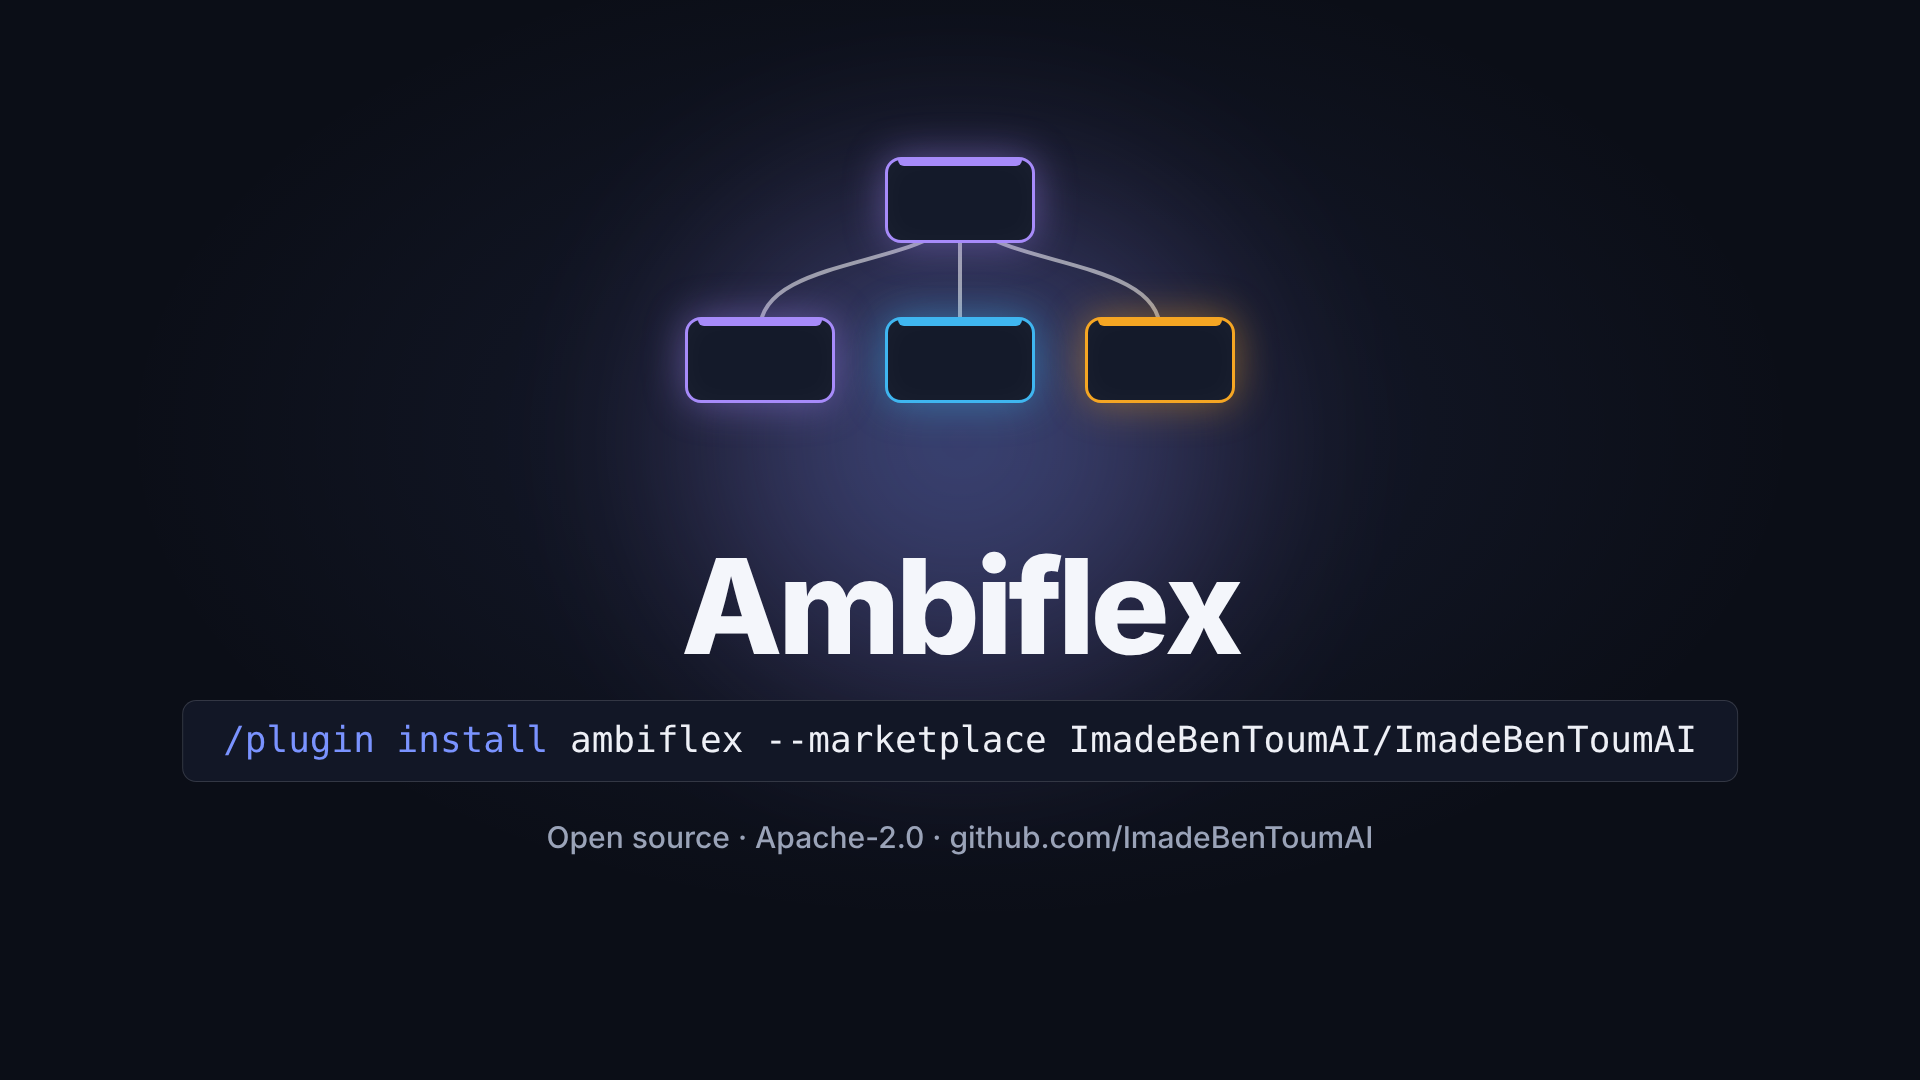
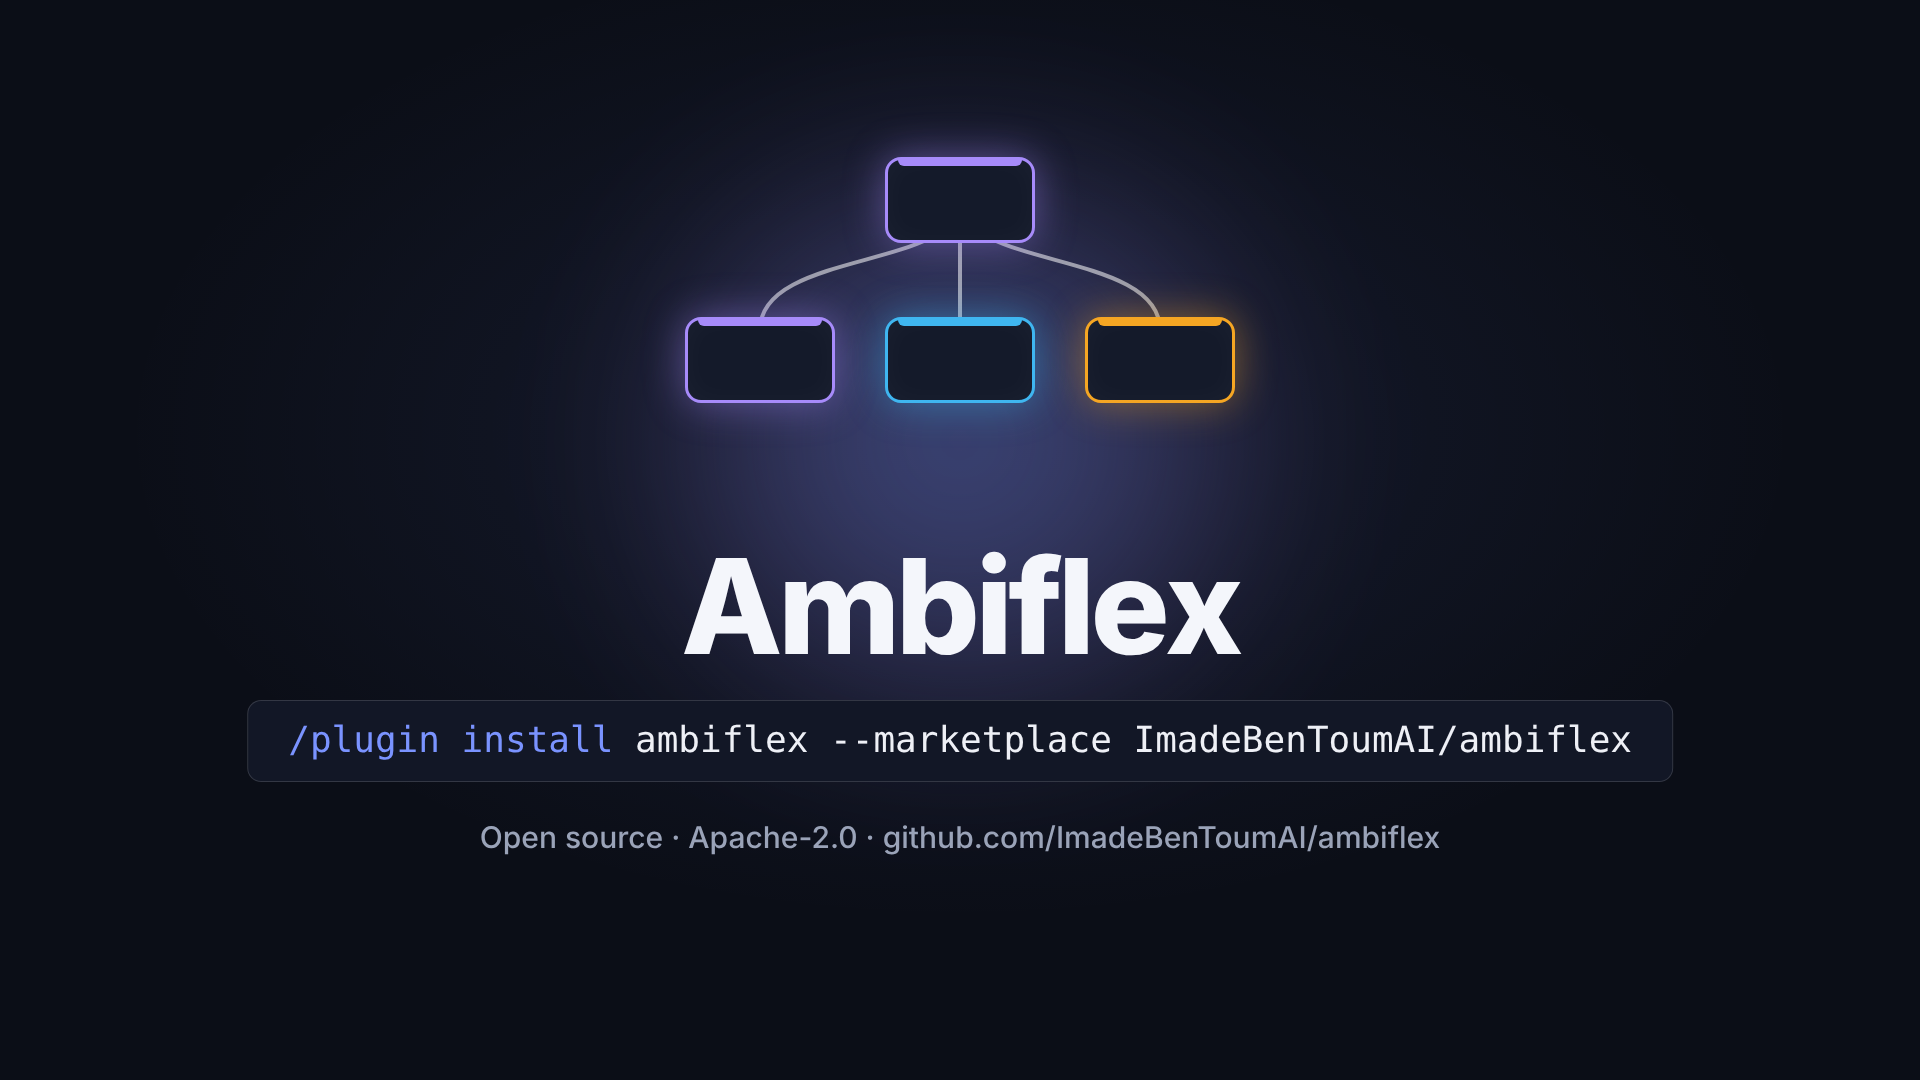
Film: end card with the dedicated repository's install line
Claude-Session: https://claude.ai/code/session_018T7HHQdizmMJokDBbWKEH2

Changed region(s): [[0.125, 0.6722, 0.875, 0.7028], [0.25, 0.7639, 0.75, 0.7944]]

diff --git a/tools/launch-video/film/index.html b/tools/launch-video/film/index.html
@@ -205,8 +205,8 @@
           </div>
         </div>
         <div class="word" id="word2" style="top:540px"><span>A</span><span>m</span><span>b</span><span>i</span><span>f</span><span>l</span><span>e</span><span>x</span></div>
-        <div class="install" id="install"><b>/plugin install</b> ambiflex --marketplace ImadeBenToumAI/ImadeBenToumAI</div>
-        <div class="repo" id="repo">Open source · Apache-2.0 · github.com/ImadeBenToumAI</div>
+        <div class="install" id="install"><b>/plugin install</b> ambiflex --marketplace ImadeBenToumAI/ambiflex</div>
+        <div class="repo" id="repo">Open source · Apache-2.0 · github.com/ImadeBenToumAI/ambiflex</div>
       </div>
     </div>
 
